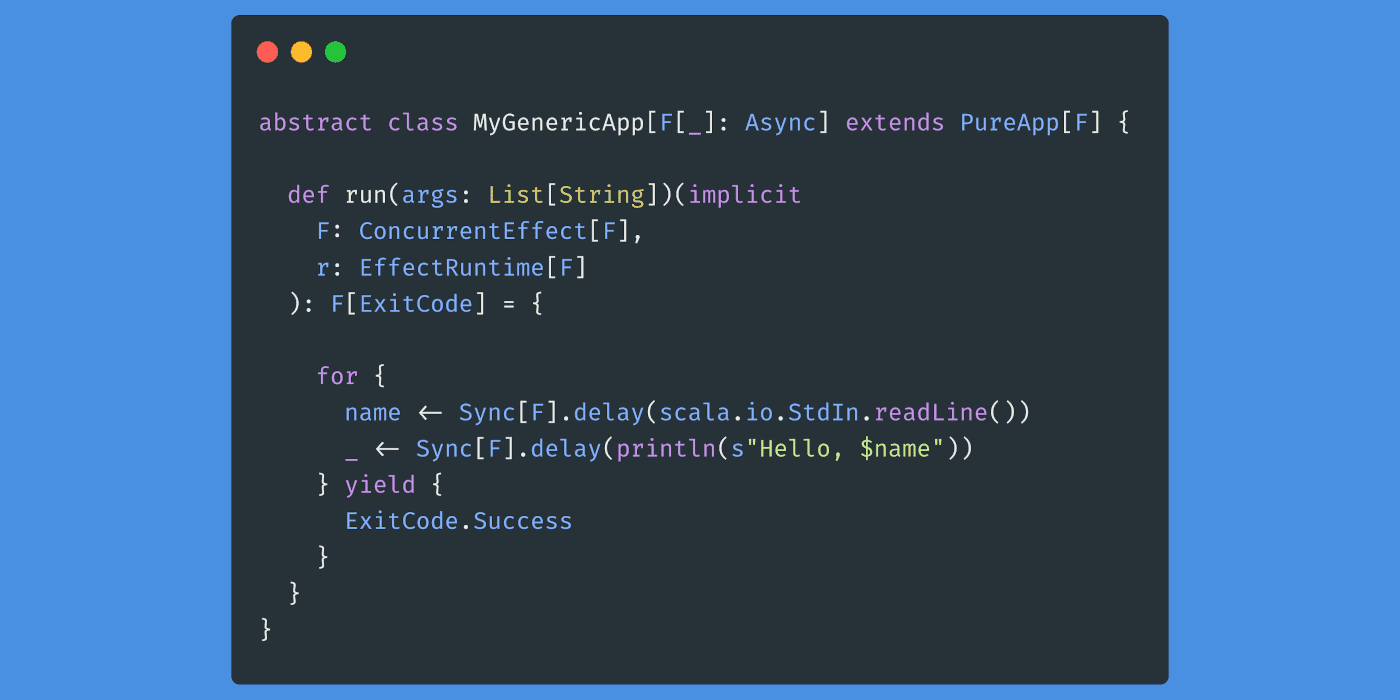
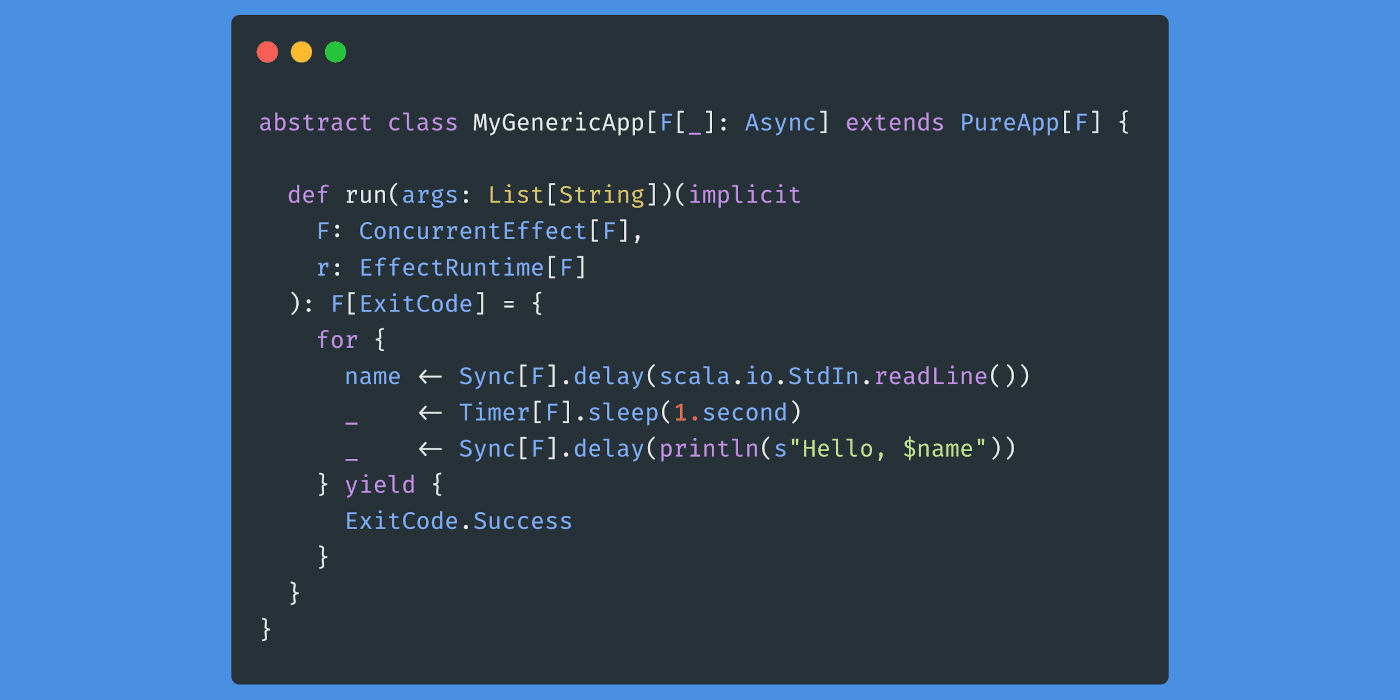
Changes

Changed region(s): [[0.215, 0.48, 0.7371, 0.66], [0.43, 0.27, 0.4607, 0.3]]

diff --git a/_snippets/2020-10-15-generic-ioapp-alternative.md b/_snippets/2020-10-15-generic-ioapp-alternative.md
@@ -68,10 +68,10 @@ abstract class MyGenericApp[F[_]: Async] extends PureApp[F] {
     F: ConcurrentEffect[F],
     r: EffectRuntime[F]
   ): F[ExitCode] = {
-
     for {
       name <- Sync[F].delay(scala.io.StdIn.readLine())
-      _ <- Sync[F].delay(println(s"Hello, $name"))
+      _    <- Timer[F].sleep(1.second)
+      _    <- Sync[F].delay(println(s"Hello, $name"))
     } yield {
       ExitCode.Success
     }
